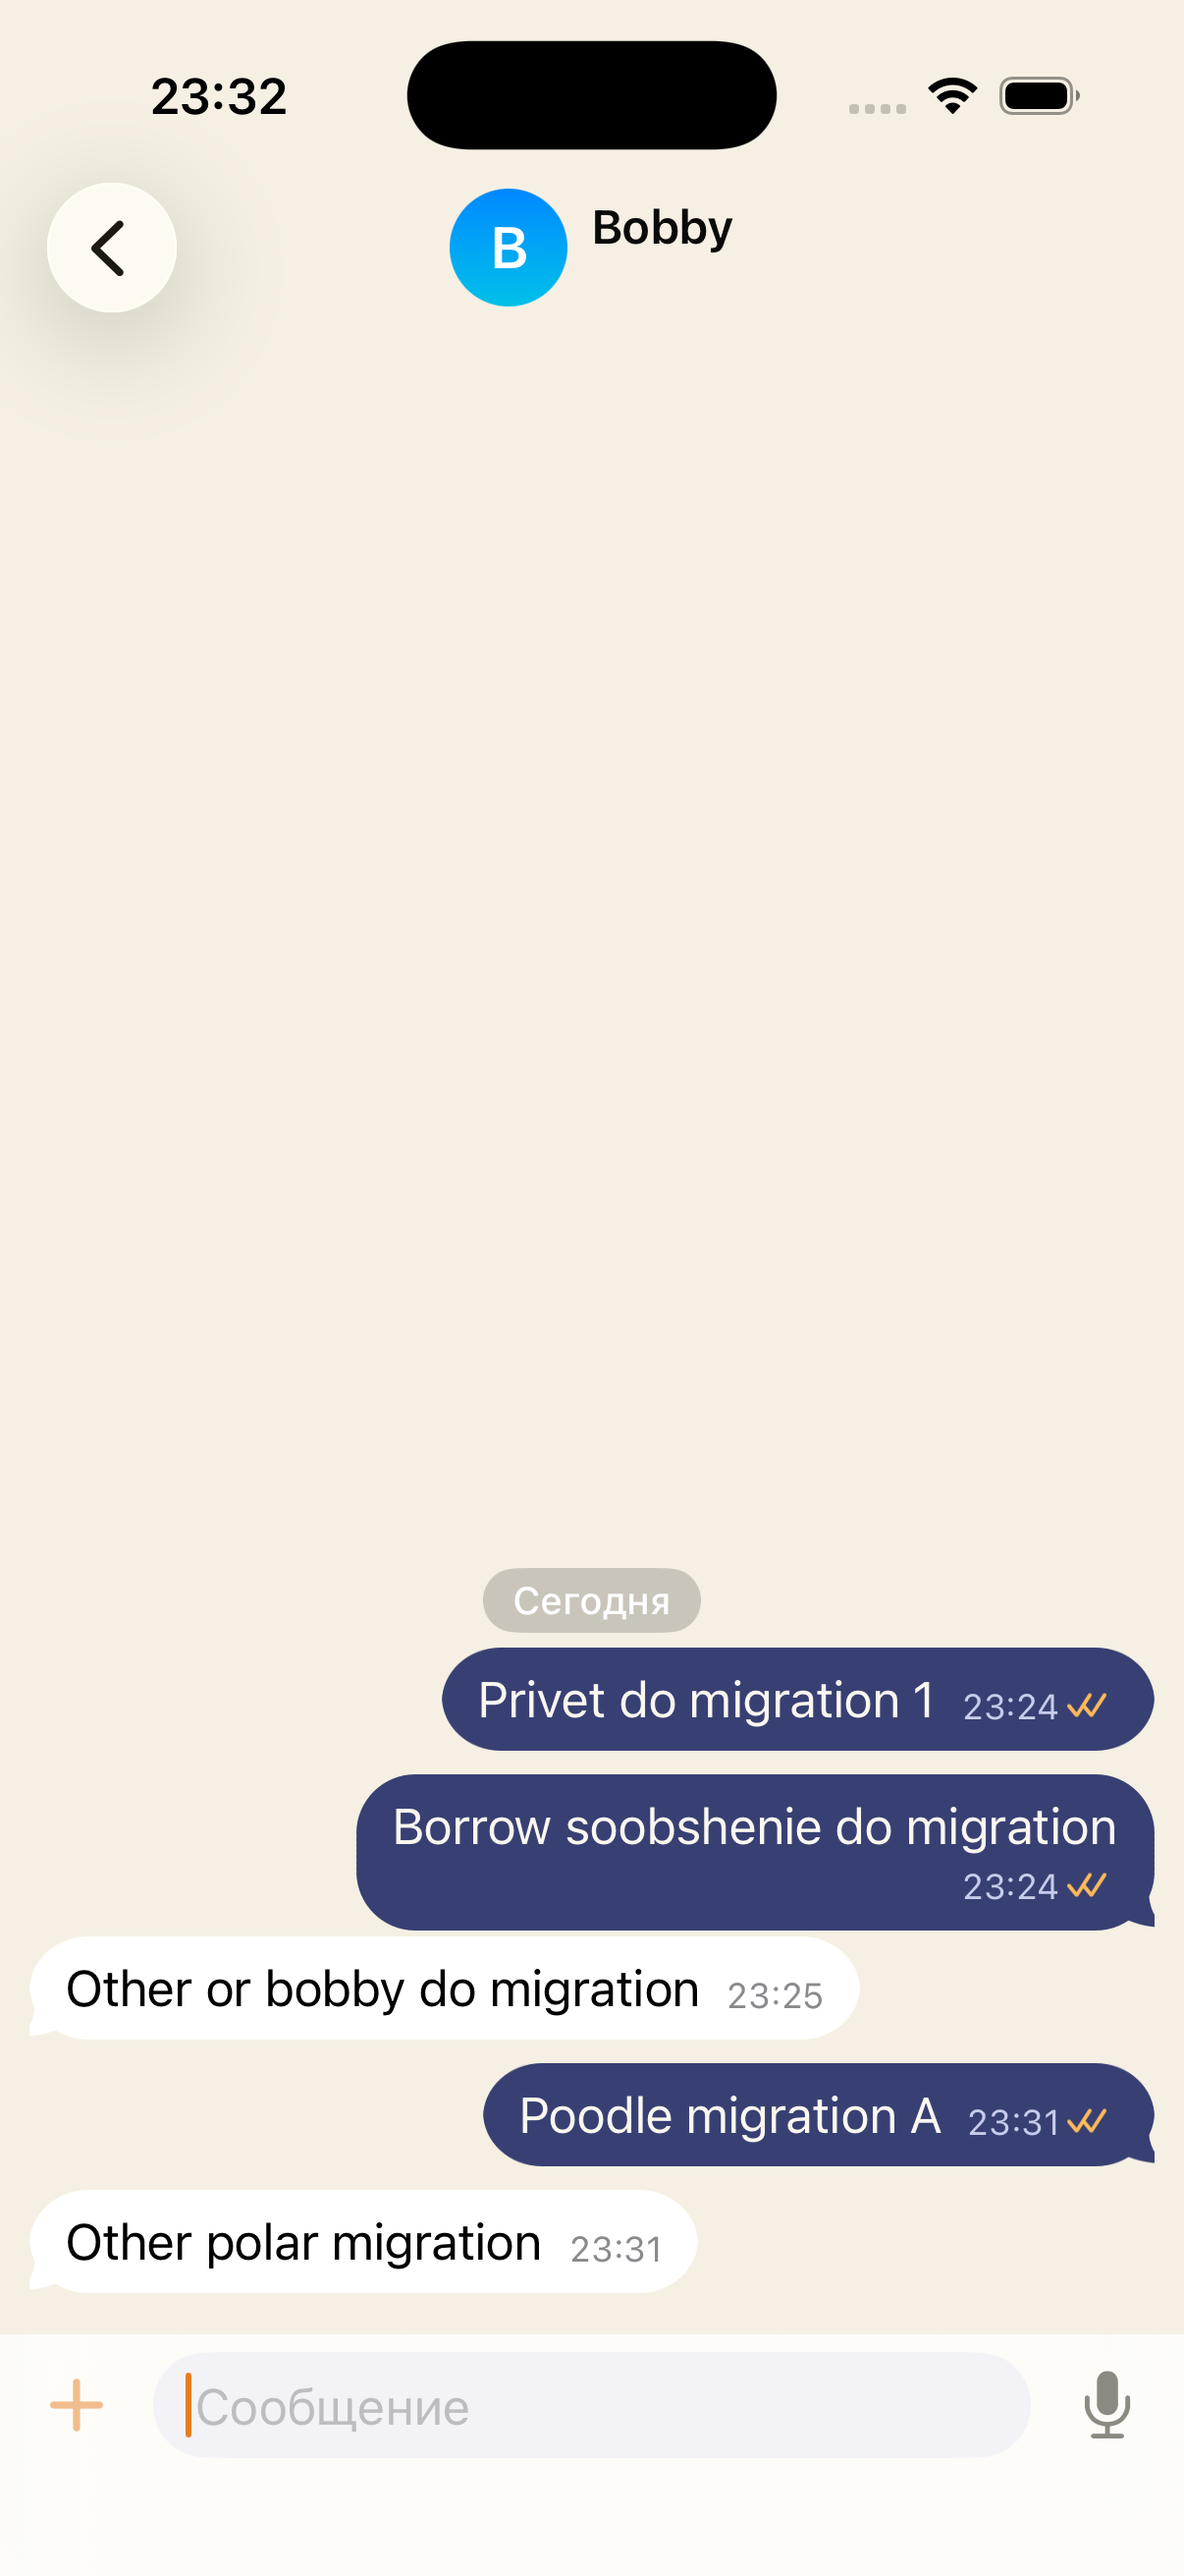
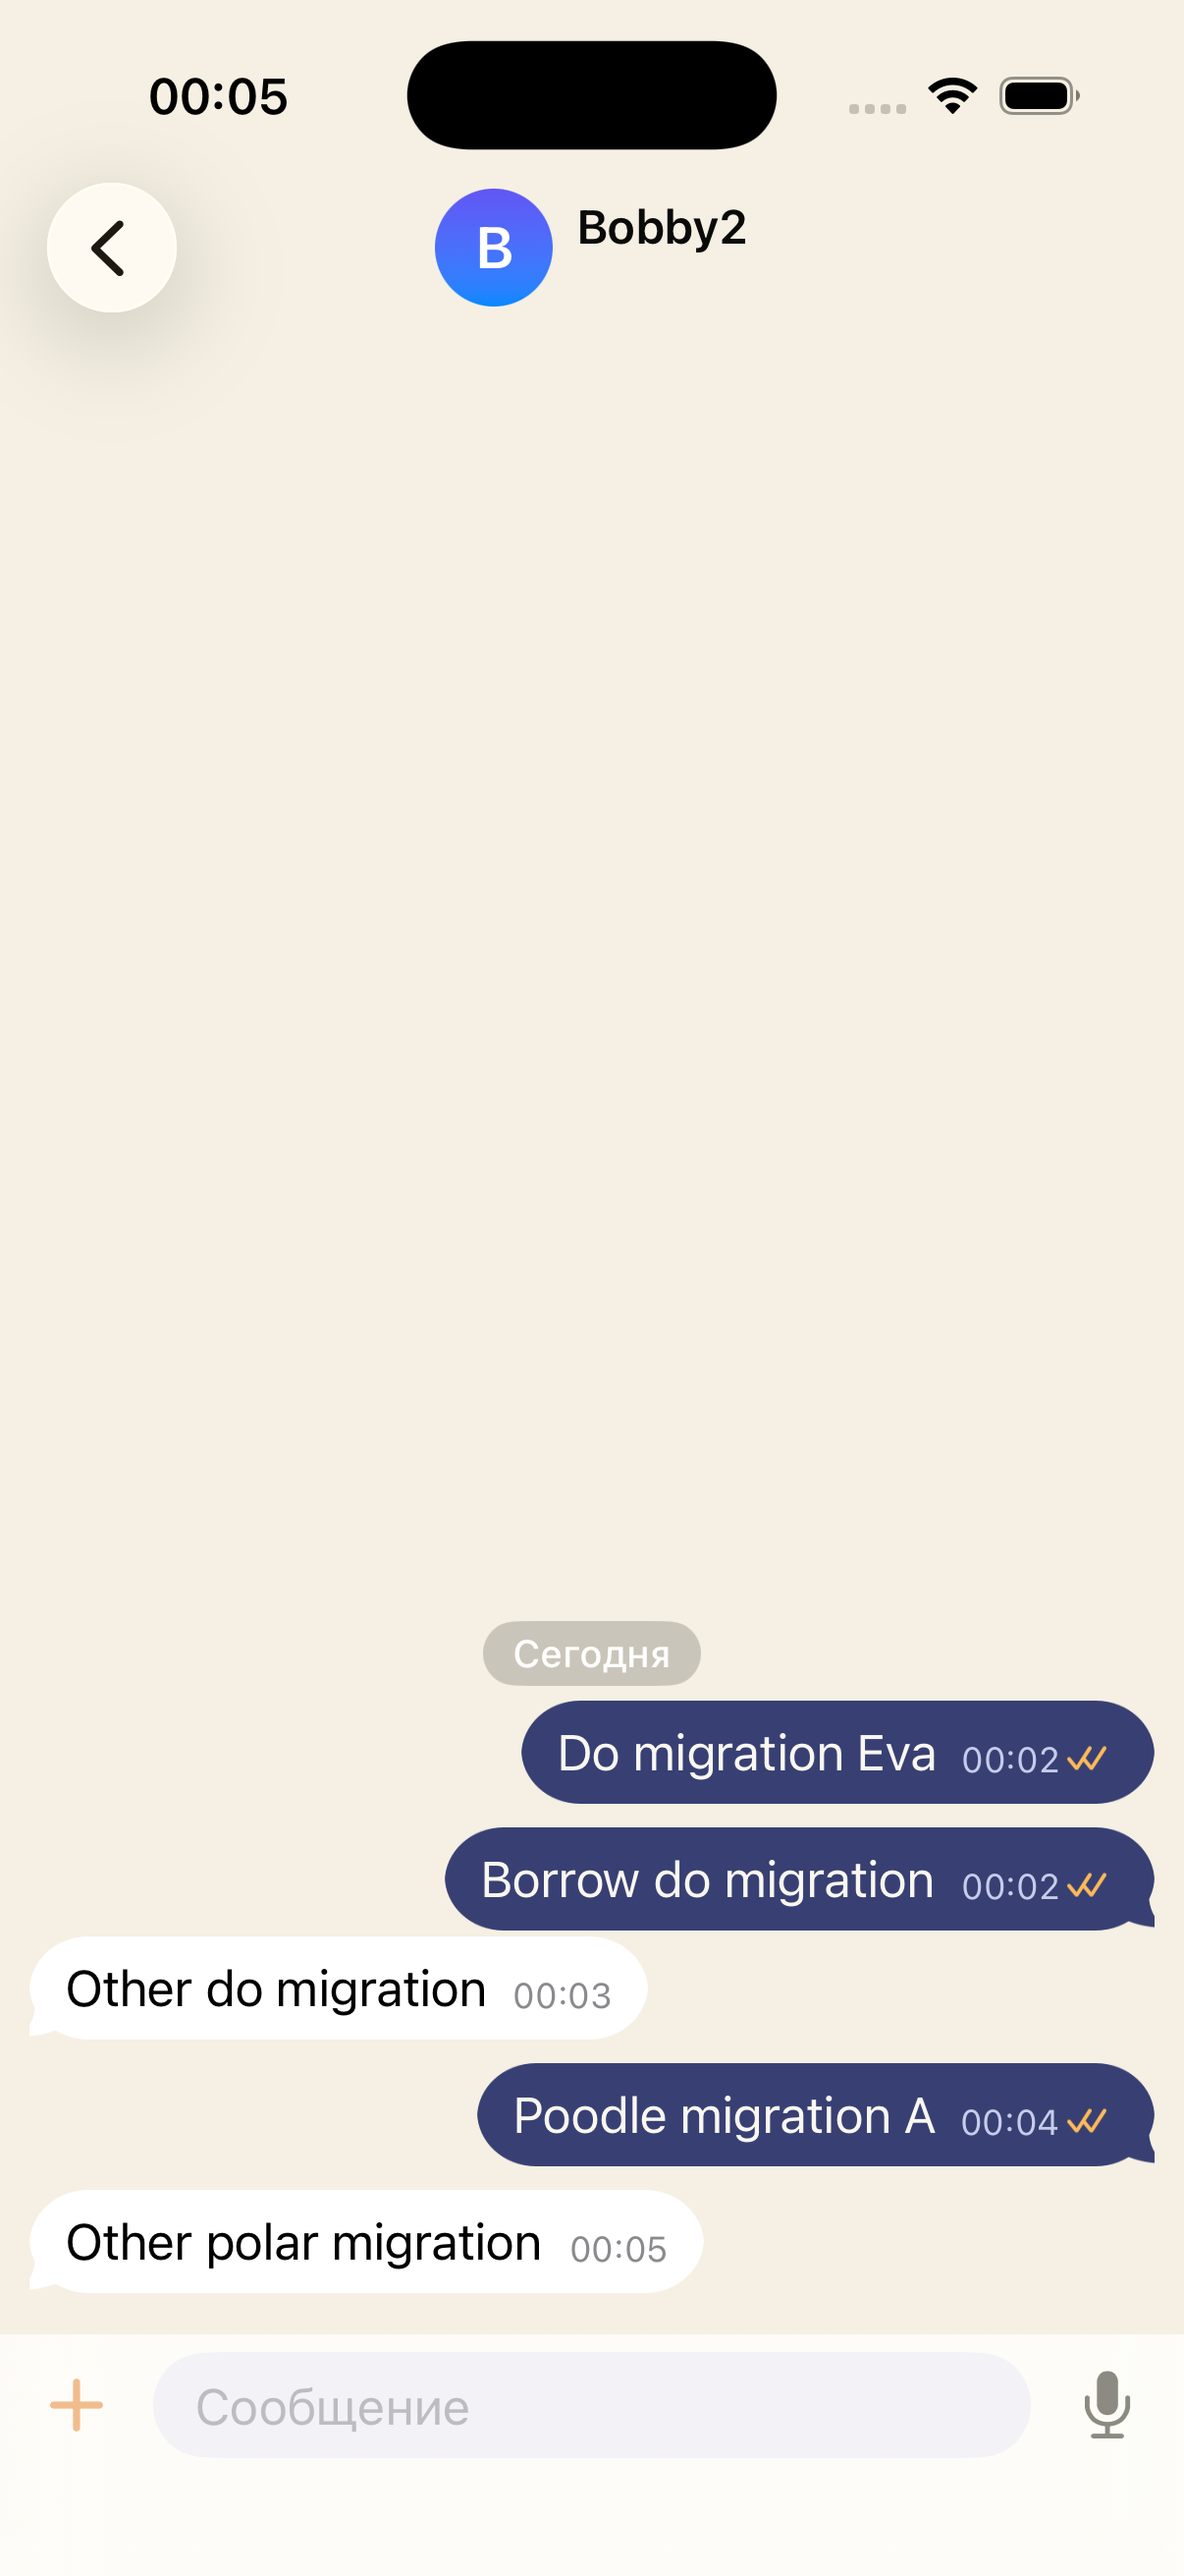
Перенос: файл БД перемещается последним, чтобы прерванный переезд доводился до конца
Наличие БД в новом размещении — признак завершённого переноса, поэтому
мастер-ключ, media-outgoing и wal/shm переезжают раньше неё. Прогон живого
апгрейда перевыполнен на финальной сборке.

diff --git a/ios/MsngrKit/Sources/MsngrCore/StorageLocation.swift b/ios/MsngrKit/Sources/MsngrCore/StorageLocation.swift
@@ -17,14 +17,15 @@ public struct StorageLocation: Sendable, Equatable {
     /// Исходники вложений, приложенных офлайн: переживают чистку Caches.
     public var pendingMediaDir: URL { root.appendingPathComponent("media-outgoing") }
 
-    /// Содержимое размещения, которое переносится при смене корня.
+    /// Содержимое размещения, которое переносится при смене корня. Файл БД —
+    /// последний: его наличие в новом размещении означает, что перенос завершён.
     public static let movableItems = [
-        databaseFileName,
-        databaseFileName + "-wal",
-        databaseFileName + "-shm",
         masterKeyFileName,
         "media-outgoing",
         "avatars",
+        databaseFileName + "-wal",
+        databaseFileName + "-shm",
+        databaseFileName,
     ]
 }
 
@@ -104,7 +105,9 @@ public enum StorageMigration {
     ///
     /// Ничего не делает, если новое размещение уже занято (там есть БД) или если
     /// переносить нечего — повторный запуск безопасен. Прерванный перенос
-    /// доводится до конца: остатки в новом размещении заменяются оригиналами.
+    /// доводится до конца на следующем запуске: БД перемещается последней, так
+    /// что до неё новое размещение считается незанятым, а остатки в нём
+    /// заменяются оригиналами.
     @discardableResult
     public static func run(from old: StorageLocation,
                            to new: StorageLocation,

diff --git a/docs/qa/runs/2026-08-14-appgroup-run.md b/docs/qa/runs/2026-08-14-appgroup-run.md
@@ -1,64 +1,63 @@
 # Переезд хранилища в контейнер app group: живой апгрейд
 
-Дата: 2026-08-14. Стенд агента: симуляторы `appgroup-a` (CC413289, юзер
-`agsender`) и `appgroup-b` (08DE4A49, юзер `bobby11`), собственный
+Дата: ночь с 2026-08-14 на 2026-08-15. Стенд агента: симуляторы `appgroup-a2` (29841E7E, юзер
+`agsender2`) и `appgroup-b2` (FA80F7EF, юзер `bobby22`), собственный
 `wrangler dev` на :8793 с отдельным `--persist-to`. Симуляторы удалены после
 прогона.
 
 ## Что проверялось
 
 Установленная сборка без entitlement хранит БД и `.masterkey` в Application
-Support. Сборка с entitlement считает путями контейнер группы. Апгрейд поверх
-установленной сборки не должен выглядеть как чистая установка: аккаунт,
-история и ratchet-сессии обязаны пережить переезд.
+Support. Сборка с entitlement считает пути от контейнера группы. Апгрейд
+поверх установленной сборки не должен выглядеть как чистая установка:
+аккаунт, история и ratchet-сессии обязаны пережить переезд.
 
 ## До миграции
 
-Сборка из коммита 4234a3d (entitlement ещё нет). Зарегистрированы два юзера,
-чат с тремя сообщениями в обе стороны — расшифровка работает, галочки
-прочтения приходят.
+Сборка из коммита 4234a3d, entitlement ещё нет. Два юзера, чат с тремя
+сообщениями в обе стороны, расшифровка и галочки прочтения работают.
 
-![до, сторона agsender](2026-08-14-appgroup/before-chat-sender.png)
-![до, сторона bobby11](2026-08-14-appgroup/before-chat-bobby.png)
-
-Раскладка файлов (Application Support приложения):
+![до миграции](2026-08-14-appgroup/before-chat-sender.png)
 
 ```
-.masterkey  media-outgoing/  msngr.sqlite  msngr.sqlite-shm  msngr.sqlite-wal  session.json
-$ xcrun simctl get_app_container CC413289… ai.enface.Msngr groups
+Application Support: .masterkey  media-outgoing/  msngr.sqlite  msngr.sqlite-shm  msngr.sqlite-wal  session.json
+$ xcrun simctl get_app_container 29841E7E… ai.enface.Msngr groups
 (пусто)
+md5 .masterkey = 2360c33147fa0bf683c97daa44775061
+userId = 01M0116XAC707HC9N6CJSPNEZS
 ```
 
 ## Апгрейд
 
 `xcrun simctl install` поверх, без удаления приложения. Контейнер группы
-создаётся installd в момент установки:
+создаёт installd в момент установки:
 
 ```
-group.ai.enface.msngr  …/data/Containers/Shared/AppGroup/A4E4C3AC-…
+group.ai.enface.msngr  …/data/Containers/Shared/AppGroup/1792FEB3-…
 ```
 
 После первого запуска новой сборки:
 
 ```
-группа:            .masterkey  avatars/  media-outgoing/  msngr.sqlite  msngr.sqlite-shm  msngr.sqlite-wal
+группа:              .masterkey  avatars/  media-outgoing/  msngr.sqlite  msngr.sqlite-shm  msngr.sqlite-wal
 Application Support: session.json
+md5 .masterkey = 2360c33147fa0bf683c97daa44775061   (тот же файл)
+select count(*) from message = 3                    (вся история)
 ```
-
-`.masterkey` в группе — тот же файл (32 байта, mtime 23:19 сохранён при
-переносе), БД содержит все сообщения.
 
 ## После миграции
 
-Тот же аккаунт (`agsender`, userId `01M00YWEK31T9S6DAS3H7PPWF4`), история на
-месте. Обмен новыми сообщениями в обе стороны: `Posle migracii A` уходит и
-расшифровывается у bobby11, ответ приходит и расшифровывается у agsender.
-Значит ratchet-состояния и identity пережили переезд — при смене мастер-ключа
-или identity расшифровка сломалась бы.
+Аккаунт тот же (`agsender2`, userId не изменился), история на месте. Обмен
+новыми сообщениями в обе стороны: `Posle migracii A` уходит и
+расшифровывается у bobby22, ответ приходит и расшифровывается у agsender2.
+Ratchet-состояния и identity пережили переезд: при смене мастер-ключа
+расшифровка сломалась бы, при смене identity собеседник получил бы
+предупреждение о смене ключа.
 
-![после](2026-08-14-appgroup/after-chat-sender.png)
+![после миграции](2026-08-14-appgroup/after-chat-sender.png)
 
-Повторный запуск ничего не переносит заново, список чатов не меняется:
+Повторный запуск ничего не переносит заново, БД остаётся той же (5
+сообщений), список чатов не меняется:
 
 ![после перезапуска](2026-08-14-appgroup/after-relaunch-chatlist.png)
 
